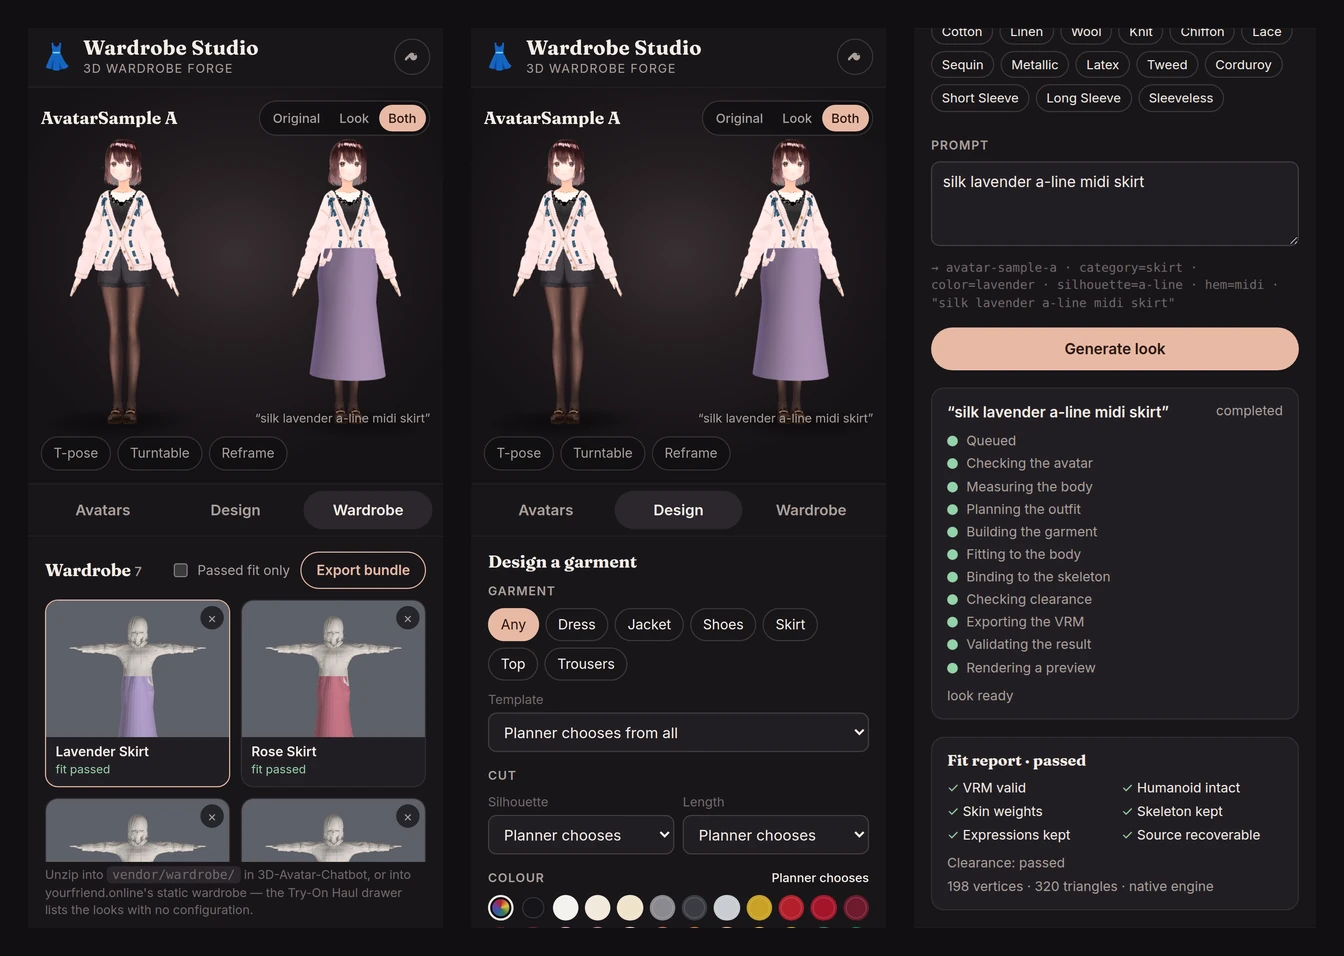
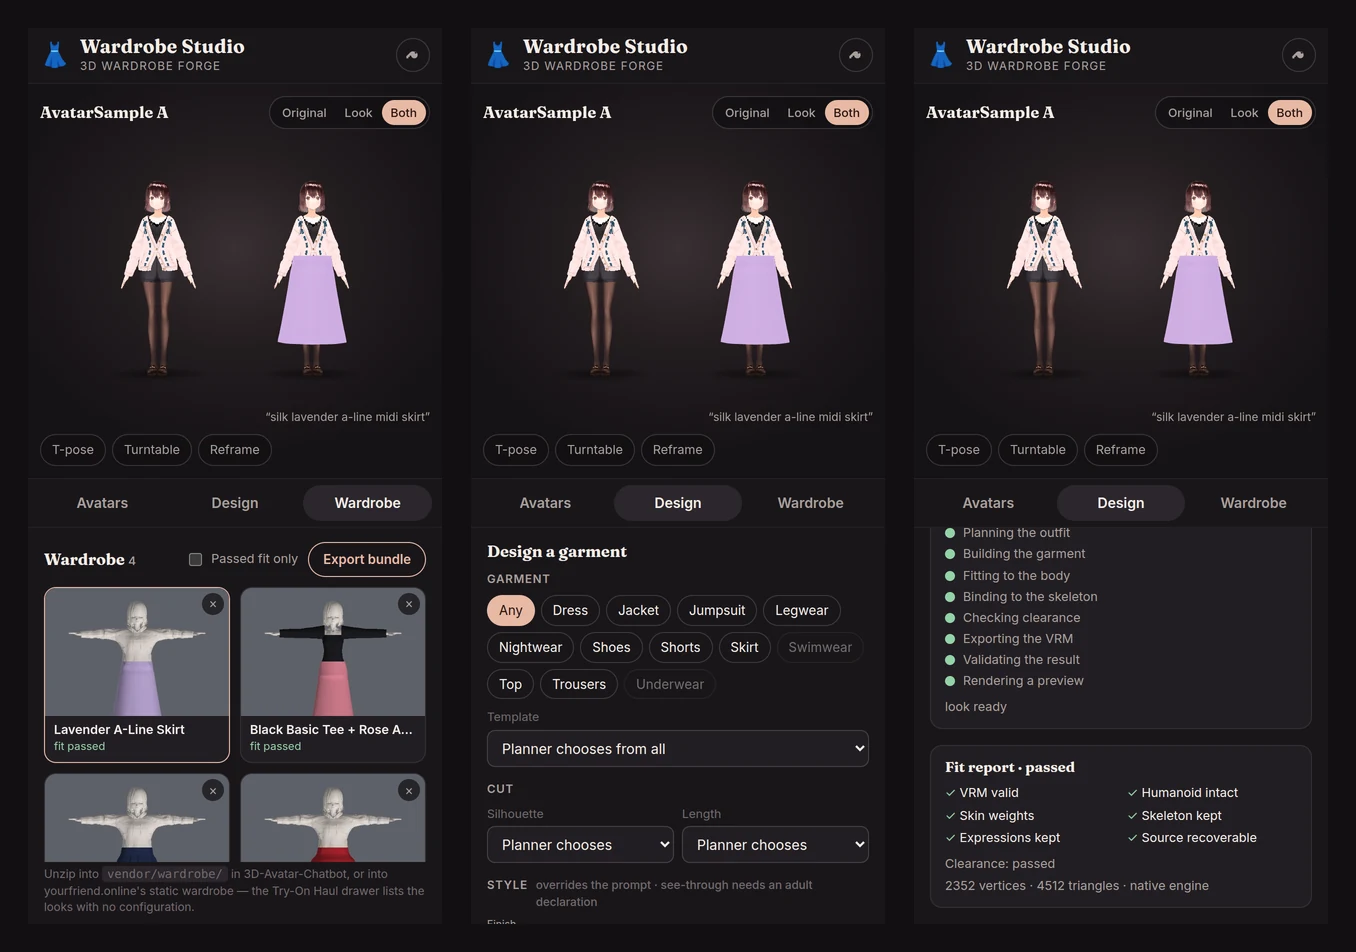
docs: regenerate the Studio phone screenshots from a live Studio
tools/gallery/studio.mjs drives a running Studio at phone width, generates
four looks on AvatarSample A through the real API, and captures the
wardrobe, the designer and the finished job with its fit report.
tools/gallery/studio_sheet.py lays the three screens side by side into
docs/images/studio-mobile.webp. Nothing is drawn over them.

Claude-Session: https://claude.ai/code/session_018LNMKVFV8MNjS6J1EiQ1cy

diff --git a/tools/gallery/studio_sheet.py b/tools/gallery/studio_sheet.py
@@ -1,0 +1,43 @@
+"""The README's Studio-on-a-phone picture, composed from the three screens ``studio.mjs`` captured.
+
+    node tools/gallery/studio.mjs http://127.0.0.1:8080 OUT_DIR
+    python tools/gallery/studio_sheet.py OUT_DIR [--sheet docs/images/studio-mobile.webp]
+
+The screens are taken at device scale 2 so the text survives the WebP; here they
+are brought back to the phone's own 414 x 896 and laid side by side on the
+page's dark ground, in the order a user meets them: the wardrobe with the new
+look in it, the designer, and the finished job with its fit report. Nothing is
+drawn over them: every word in the picture is the Studio's.
+"""
+
+import argparse
+from pathlib import Path
+
+from PIL import Image
+
+ROOT = Path(__file__).resolve().parents[2]
+
+SCREENS = ("studio-wardrobe.png", "studio-design.png", "studio-report.png")
+#: The phone's viewport in CSS pixels, which is the size each screen is shown at.
+PHONE = (414, 896)
+MARGIN, GAP = 28, 29
+GROUND = (18, 15, 18)
+
+
+def compose(shots: Path, target: Path) -> None:
+    width = 2 * MARGIN + len(SCREENS) * PHONE[0] + (len(SCREENS) - 1) * GAP
+    sheet = Image.new("RGB", (width, PHONE[1] + 2 * MARGIN), GROUND)
+    for n, name in enumerate(SCREENS):
+        screen = Image.open(shots / name).convert("RGB").resize(PHONE, Image.LANCZOS)
+        sheet.paste(screen, (MARGIN + n * (PHONE[0] + GAP), MARGIN))
+    target.parent.mkdir(parents=True, exist_ok=True)
+    sheet.save(target, "WEBP", quality=88, method=6)
+    print(target, sheet.size, target.stat().st_size // 1024, "KB")
+
+
+if __name__ == "__main__":
+    parser = argparse.ArgumentParser(description=__doc__.splitlines()[0])
+    parser.add_argument("shots", type=Path)
+    parser.add_argument("--sheet", type=Path, default=ROOT / "docs" / "images" / "studio-mobile.webp")
+    args = parser.parse_args()
+    compose(args.shots.resolve(), args.sheet.resolve())
